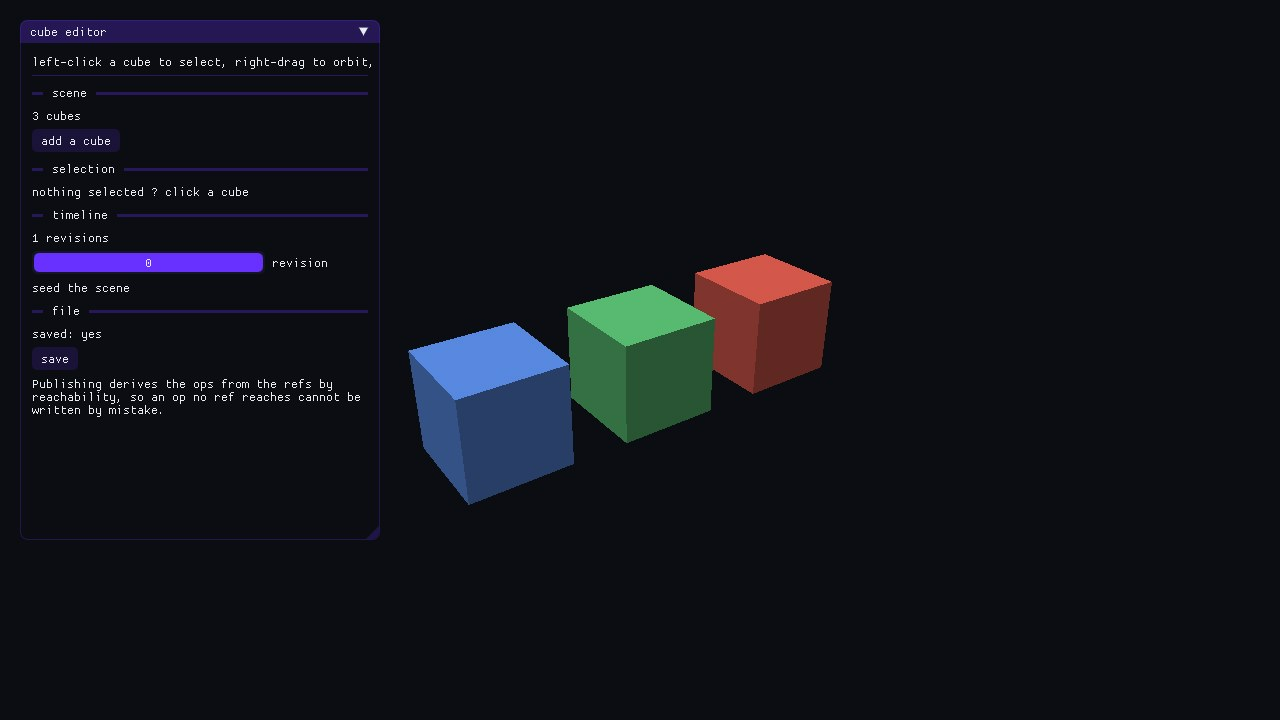
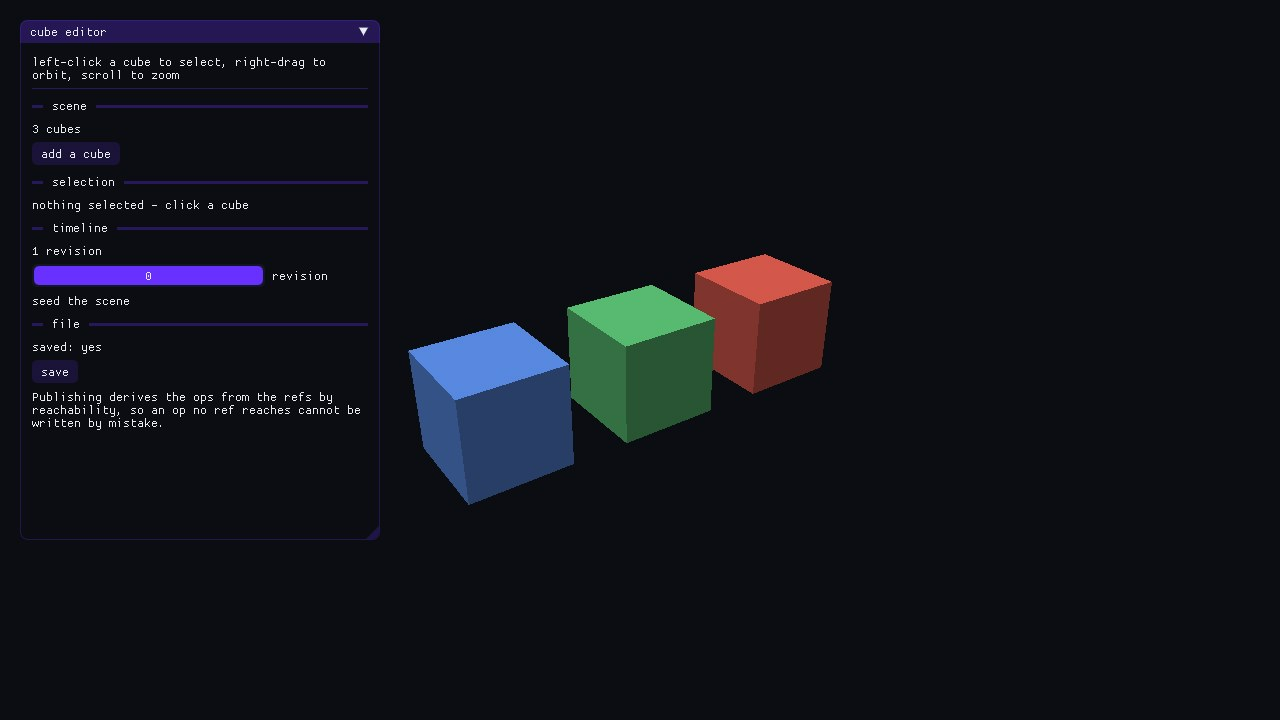
examples: a capture leaves the session alone, and both cube panels read
Both examples skipped their restored camera and imgui layout under capture, so a
reference image would show a first run. Neither skipped the exit store, so every
`--update-captures` wrote the capture's defaults back into `cube-editor.vdoc` and
replaced whatever the developer had arranged. The load guard was there and its
counterpart was not; both stores are guarded now, in-loop and on exit.

The rest is what the reference images showed once they existed, which is the whole
argument for capturing while authoring.

`vdoc/cube-viewer`'s panel was about 110 pixels wide, every sentence wrapping to two
or three words and one breaking mid-word. It sets `SetNextWindowPos` and no size, so
imgui auto-fits to its widest widget and the `TextWrapped` paragraphs wrap to that.
Invisible for the example's whole life, because `ImGuiCond_FirstUseEver` means a
window dragged wide once is what you keep seeing - and only a first run shows the
default. Its sibling has had both calls all along.

The editor drew `nothing selected ? click a cube`: the default imgui font atlas is
ASCII-only and cannot draw an em-dash. Both of them are ASCII now. Its hint line ran
past the panel edge and was cut off, so it wraps. And both panels said `1 revisions`.

Images refreshed; they are what the fixes are visible in.

Assisted-By: Claude Code claude-opus-5

Changed region(s): [[0.0, 0.0917, 0.2812, 0.5806], [0.1562, 0.5194, 0.2812, 0.5806]]

diff --git a/examples/vdoc/cube-editor/example-editor.cc b/examples/vdoc/cube-editor/example-editor.cc
@@ -80,7 +80,7 @@ void draw_inspector(document& doc, vdoc::entity_id selected)
     auto const* const s = doc.current().get<style>(selected);
     if (p == nullptr || s == nullptr)
     {
-        ImGui::TextUnformatted("nothing selected — click a cube");
+        ImGui::TextUnformatted("nothing selected - click a cube");
         return;
     }
 
@@ -121,7 +121,7 @@ void draw_timeline(document& doc)
     auto const count = int(doc.timeline().size());
     auto revision = doc.revision();
 
-    ImGui::Text("%d revisions", count);
+    ImGui::Text(count == 1 ? "%d revision" : "%d revisions", count);
     if (ImGui::SliderInt("revision", &revision, 0, count - 1))
         doc.show_revision(revision);
 
@@ -129,7 +129,7 @@ void draw_timeline(document& doc)
 
     if (revision != count - 1)
     {
-        ImGui::TextWrapped("Editing from here branches — the revisions after this one are simply left behind.");
+        ImGui::TextWrapped("Editing from here branches - the revisions after this one are simply left behind.");
         if (ImGui::Button("back to the newest"))
             doc.show_revision(count - 1);
     }
@@ -187,7 +187,9 @@ EXAMPLE("vdoc/cube-editor")
         ImGui::SetNextWindowSize(ImVec2(360, 520), ImGuiCond_FirstUseEver);
         ImGui::Begin("cube editor");
 
-        ImGui::TextUnformatted("left-click a cube to select, right-drag to orbit, scroll to zoom");
+        // Wrapped rather than unformatted: at the window's own default width this line runs past the edge and is
+        // simply cut off, which is what the committed reference image showed.
+        ImGui::TextWrapped("left-click a cube to select, right-drag to orbit, scroll to zoom");
         ImGui::Separator();
 
         ImGui::SeparatorText("scene");
@@ -213,14 +215,19 @@ EXAMPLE("vdoc/cube-editor")
         app->end_frame(doc.value().current(), camera, selected);
 
         // Empty on nearly every frame: imgui only asks for a save a few seconds after something moved.
-        if (auto const ini = app->imgui().take_dirty_settings(); ini.has_value())
+        if (auto const ini = app->imgui().take_dirty_settings(); ini.has_value() && !app->is_capturing())
             doc.value().store_ui_settings(ui_name, ini.value());
     }
 
-    // The last few seconds of layout are still only in imgui, so the exit save is unconditional — and must precede `app` going away.
-    doc.value().store_ui_settings(ui_name, app->imgui().settings());
-    doc.value().store_camera(camera);
-    doc.value().save();
+    // The last few seconds of layout are still only in imgui, so the exit save must precede `app` going away.
+    // Skipped under capture, which is the other half of loading nothing: a capture moved no camera and dragged no
+    // panel, so writing its defaults back would replace whatever the last real session arranged.
+    if (!app->is_capturing())
+    {
+        doc.value().store_ui_settings(ui_name, app->imgui().settings());
+        doc.value().store_camera(camera);
+        doc.value().save();
+    }
     cc::println("{} revisions in the document; reopen to find it exactly as you left it", doc.value().timeline().size());
 }
 

diff --git a/examples/vdoc/cube-editor/example-viewer.cc b/examples/vdoc/cube-editor/example-viewer.cc
@@ -64,10 +64,17 @@ EXAMPLE("vdoc/cube-viewer")
                 camera.zoom(e.as_mouse_wheel().delta[1]);
         }
 
+        // Sized as well as placed, and for the same reason the editor is.
+        // Without a size imgui auto-fits the window to its widest WIDGET, which here is a short line of text — so
+        // every `TextWrapped` below wraps to two or three words and one breaks mid-word.
+        // It stayed invisible while both examples restored a saved layout: `FirstUseEver` means a window dragged
+        // wide once is what you keep seeing, and only a first run shows the default.
         ImGui::SetNextWindowPos(ImVec2(20, 20), ImGuiCond_FirstUseEver);
+        ImGui::SetNextWindowSize(ImVec2(320, 300), ImGuiCond_FirstUseEver);
         ImGui::Begin("cube viewer");
         ImGui::Text("%d cubes", int(doc.value().current().entities().size()));
-        ImGui::Text("%d revisions", int(doc.value().timeline().size()));
+        auto const revisions = int(doc.value().timeline().size());
+        ImGui::Text(revisions == 1 ? "%d revision" : "%d revisions", revisions);
         ImGui::Separator();
         ImGui::TextWrapped("The camera is workspace state, not document state: moving it writes no op and leaves "
                            "the document saved.");
@@ -78,14 +85,19 @@ EXAMPLE("vdoc/cube-viewer")
         app->end_frame(doc.value().current(), camera, vdoc::entity_id());
 
         // Empty on nearly every frame: imgui only asks for a save a few seconds after something moved.
-        if (auto const ini = app->imgui().take_dirty_settings(); ini.has_value())
+        if (auto const ini = app->imgui().take_dirty_settings(); ini.has_value() && !app->is_capturing())
             doc.value().store_ui_settings(ui_name, ini.value());
     }
 
-    // Written on every exit, and flushed by the store's close(). No op, no ref move, no dirty document.
-    doc.value().store_ui_settings(ui_name, app->imgui().settings());
-    doc.value().store_camera(camera);
-    cc::println("camera stored in the workspace — reopen to land exactly here");
+    // Written on exit, and flushed by the store's close(). No op, no ref move, no dirty document.
+    // Skipped under capture, which is the other half of loading nothing: a capture moved no camera, so writing its
+    // default back would replace whatever the last real session left here.
+    if (!app->is_capturing())
+    {
+        doc.value().store_ui_settings(ui_name, app->imgui().settings());
+        doc.value().store_camera(camera);
+        cc::println("camera stored in the workspace — reopen to land exactly here");
+    }
 }
 
 #endif // SR_HAS_WINDOW

diff --git a/examples/vdoc/cube-editor/cube_app.cc b/examples/vdoc/cube-editor/cube_app.cc
@@ -196,7 +196,7 @@ void app::end_frame(vdoc::document const& doc, orbit_camera const& cam, vdoc::en
     if (_captured_frames < _capture.accumulate_frames)
         return;
 
-    auto const written = sr::write_capture_image(*_ctx, _capture_target, _viewport, _capture.output_path);
+    auto const written = sr::write_capture_image(*_ctx, _capture_target, _capture.output_path);
     if (written.has_error())
         cc::eprintln("capture failed: {}", written.error().to_string());
 }
